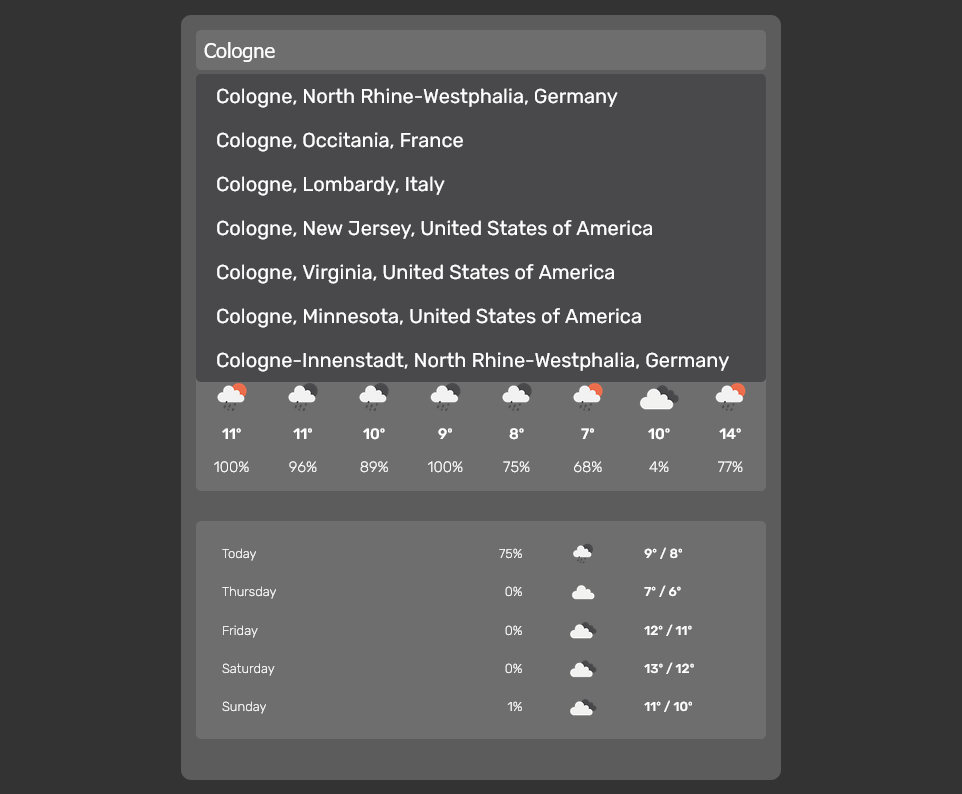
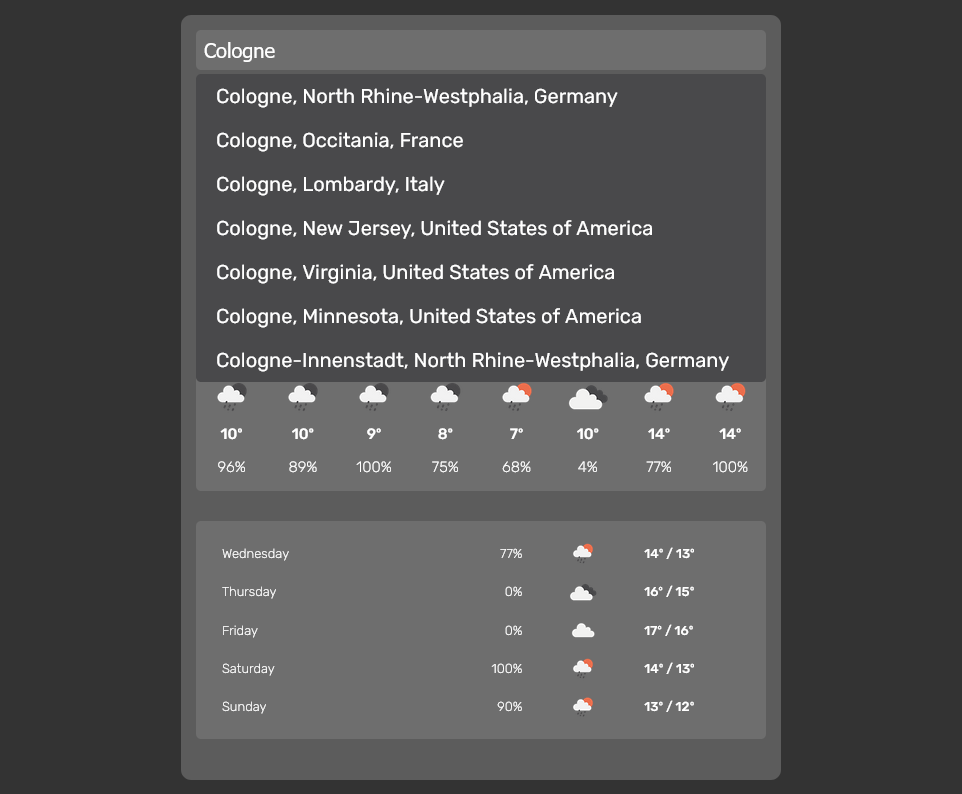
readme. small fixing in forecast. cleanup

diff --git a/src/components/forecast/forecast.component.jsx b/src/components/forecast/forecast.component.jsx
@@ -2,23 +2,18 @@ import React from "react";
 import { useStoreState } from "easy-peasy";
 import "./forecast.styles.scss";
 
-const noons = [4, 12, 20, 28, 36];
-
 const Forecast = () => {
   const weatherForecast = useStoreState((state) => state.weatherForecast);
 
-  console.log("weatherForecast", weatherForecast);
-
   function getDayName(dayStr, locale, noon) {
     var date = new Date(dayStr);
-    if (noon === 4) return "Today";
     return date.toLocaleDateString(locale, { weekday: "long" });
   }
 
   return (
     <div className="forecast">
       {weatherForecast.list.map((wf, index) => {
-        if (noons.includes(index)) {
+        if (wf.dt_txt.substr(-8, 5) === "12:00") {
           const weatherIcon = wf.weather[0];
           const { main: weatherMain } = wf;
           return (

diff --git a/src/components/container/container.component.jsx b/src/components/container/container.component.jsx
@@ -9,17 +9,12 @@ import "./container.styles.scss";
 
 const Container = () => {
   const getCurrentCity = useStoreActions((actions) => actions.getCurrentCity);
-  //const currentCity = useStoreState((state) => state.currentCity);
   const weather = useStoreState((state) => state.weather);
   const weatherForecast = useStoreState((state) => state.weatherForecast);
-
-  //const getWeather = useStoreActions((actions) => actions.getWeather);
 
   useEffect(() => {
     getCurrentCity();
   }, [getCurrentCity]);
-
-  console.log("weather", weather);
 
   return (
     <div className="container">

diff --git a/src/components/display/display.component.jsx b/src/components/display/display.component.jsx
@@ -6,13 +6,9 @@ const Display = () => {
   const currentCity = useStoreState((state) => state.currentCity);
   const weather = useStoreState((state) => state.weather);
 
-  console.log("CurrentCity", currentCity);
-
   const { name: city } = currentCity;
   const { main: weatherMain } = weather;
   const weatherIcon = weather.weather[0];
-
-  console.log("weather", weather);
 
   return (
     <div className="display">

diff --git a/src/components/forecast/forecast.styles.scss b/src/components/forecast/forecast.styles.scss
@@ -3,11 +3,9 @@
 .forecast {
   display: flex;
   flex-direction: column;
-  //gap: 1em;
   width: 100%;
   font-size: 13px;
   font-weight: 300;
-  //justify-content: center;
   padding: 1em 2em;
   background-color: $color-background-card;
   border-radius: 5px;

diff --git a/src/components/cities/cities.component.jsx b/src/components/cities/cities.component.jsx
@@ -24,7 +24,6 @@ const Cities = () => {
 
   const selectCity = (city) => {
     setSelectedCity(city);
-    console.log("Selected City", city);
     setInputValue("");
     getCities("");
   };

diff --git a/src/components/cities/cities.styles.scss b/src/components/cities/cities.styles.scss
@@ -40,7 +40,6 @@
 }
 
 ::placeholder {
-  /* Chrome, Firefox, Opera, Safari 10.1+ */
   color: $color-white;
-  opacity: 1; /* Firefox */
+  opacity: 1;
 }

diff --git a/src/components/container/container.styles.scss b/src/components/container/container.styles.scss
@@ -2,6 +2,5 @@
   display: flex;
   flex-direction: column;
   height: fit-content;
-  //gap: 2em;
   padding: 1em;
 }

diff --git a/README.md b/README.md
@@ -12,6 +12,7 @@ This app allows you to see current weather and forecast for your location or for
     - [Screenshots](#screenshots)
   - [My process](#my-process)
     - [Built with](#built-with)
+    - [APIs](#apis)
   - [Author](#author)
 
 ## Links
@@ -27,7 +28,7 @@ Users should be able to:
 
 - See current weather
 - See weather for following hours
-- See weather forecast for next 5 days
+- See weather forecast for following days
 - Change city weather by searching it
 
 ### Screenshots
@@ -49,11 +50,18 @@ Users should be able to:
 ### Built with
 
 - Semantic HTML5 markup
-- SCSS
 - Flexbox
 - CSS Grid
+- [Sass](https://sass-lang.com/) - CSS with superpowers
+- [Axios](https://axios-http.com/) - Promise based HTTP client
 - [React](https://reactjs.org/) - JS library
 - [Easy Peasy](https://easy-peasy.vercel.app/) - Easy Peasy is an abstraction of Redux
+
+### APIs
+
+- [Spott](https://rapidapi.com/Spott/api/spott/details) - Locate user by IP
+- [OpenWeather](https://openweathermap.org/api) - Weather & Forecast information
+- [GeoDB Cities](https://rapidapi.com/wirefreethought/api/geodb-cities/details) - Search Cities
 
 
 ## Author
